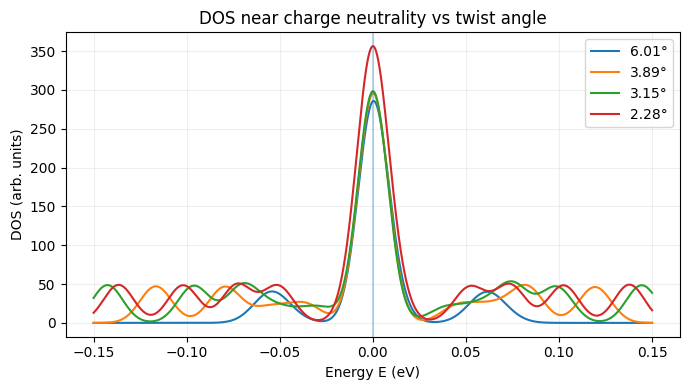
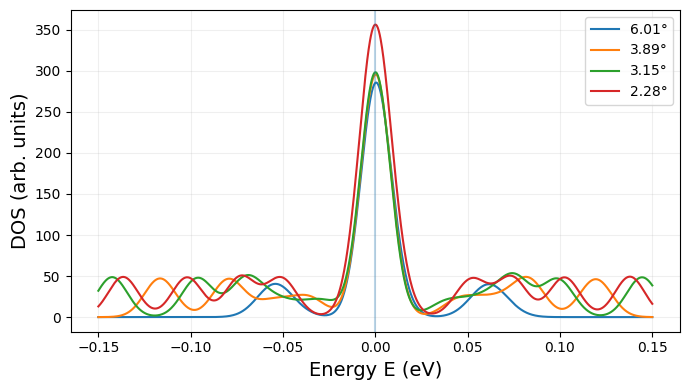
Got rid of title

diff --git a/twisted_bilayer_graphene_isolated.py b/twisted_bilayer_graphene_isolated.py
@@ -447,9 +447,8 @@ def run_dos(dos_angles=None):
 
 
     plt.axvline(0, alpha=0.3)
-    plt.xlabel("Energy E (eV)")
-    plt.ylabel("DOS (arb. units)")
-    plt.title("DOS near charge neutrality vs twist angle")
+    plt.xlabel("Energy E (eV)", fontsize = 14)
+    plt.ylabel("DOS (arb. units)", fontsize = 14)
     plt.legend()
     plt.grid(True, alpha=0.2)
     plt.tight_layout()
@@ -457,6 +456,6 @@ def run_dos(dos_angles=None):
     plt.show()
 
 
-run_bandwidth_vs_angle()
+#run_bandwidth_vs_angle()
 #run_bandstructure_comparison()
-#run_dos()
+run_dos()
